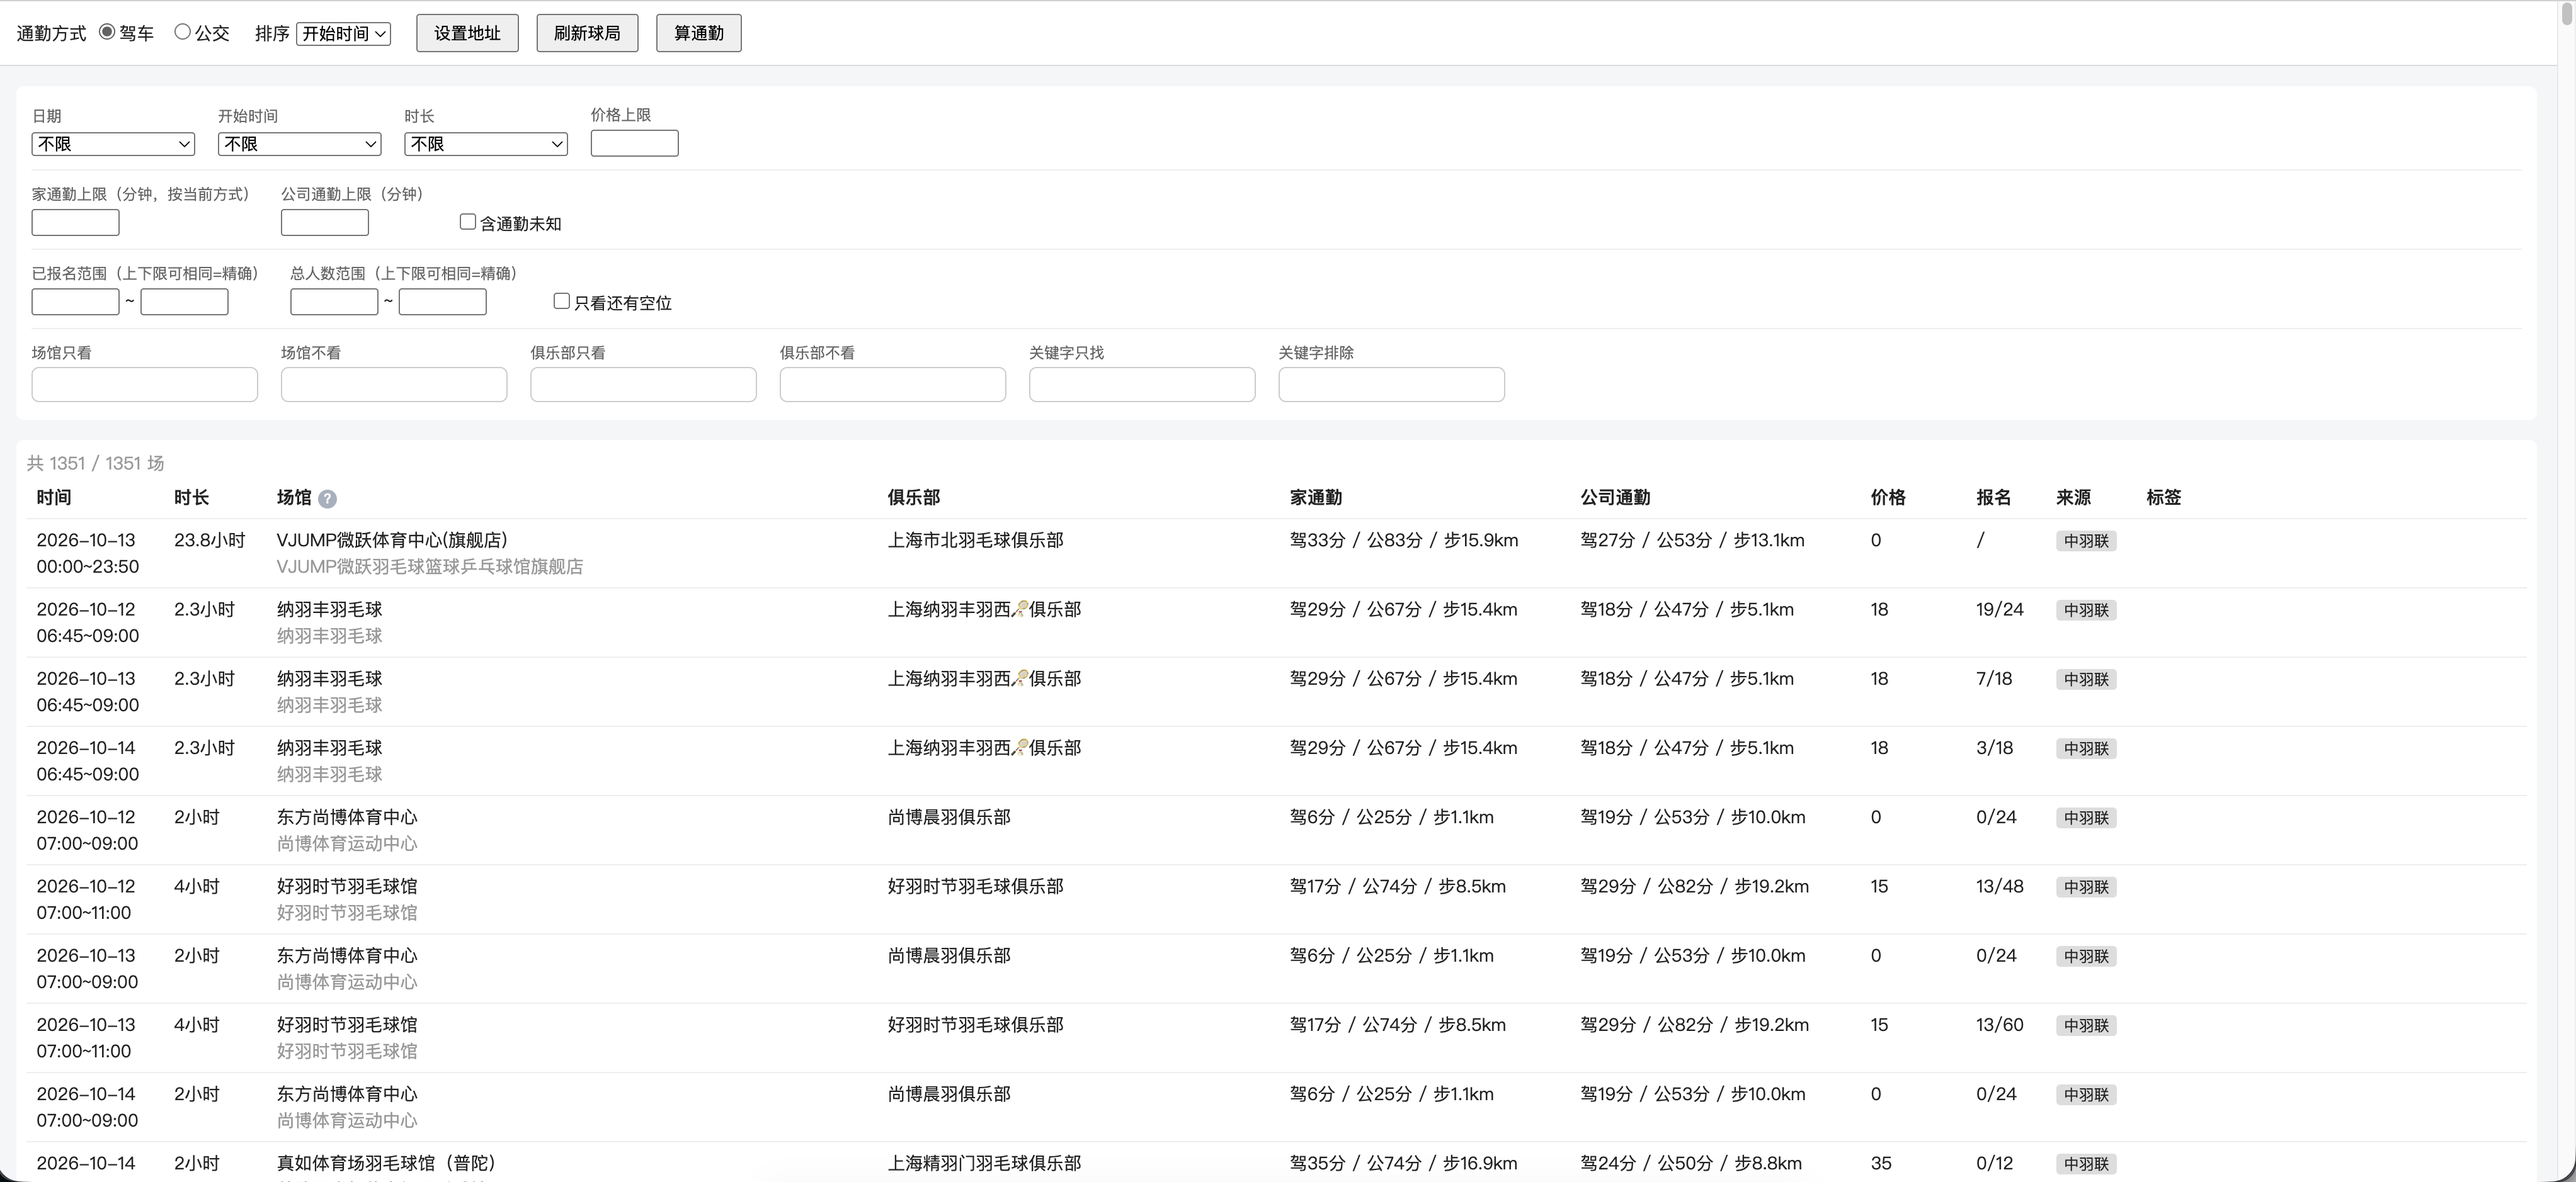
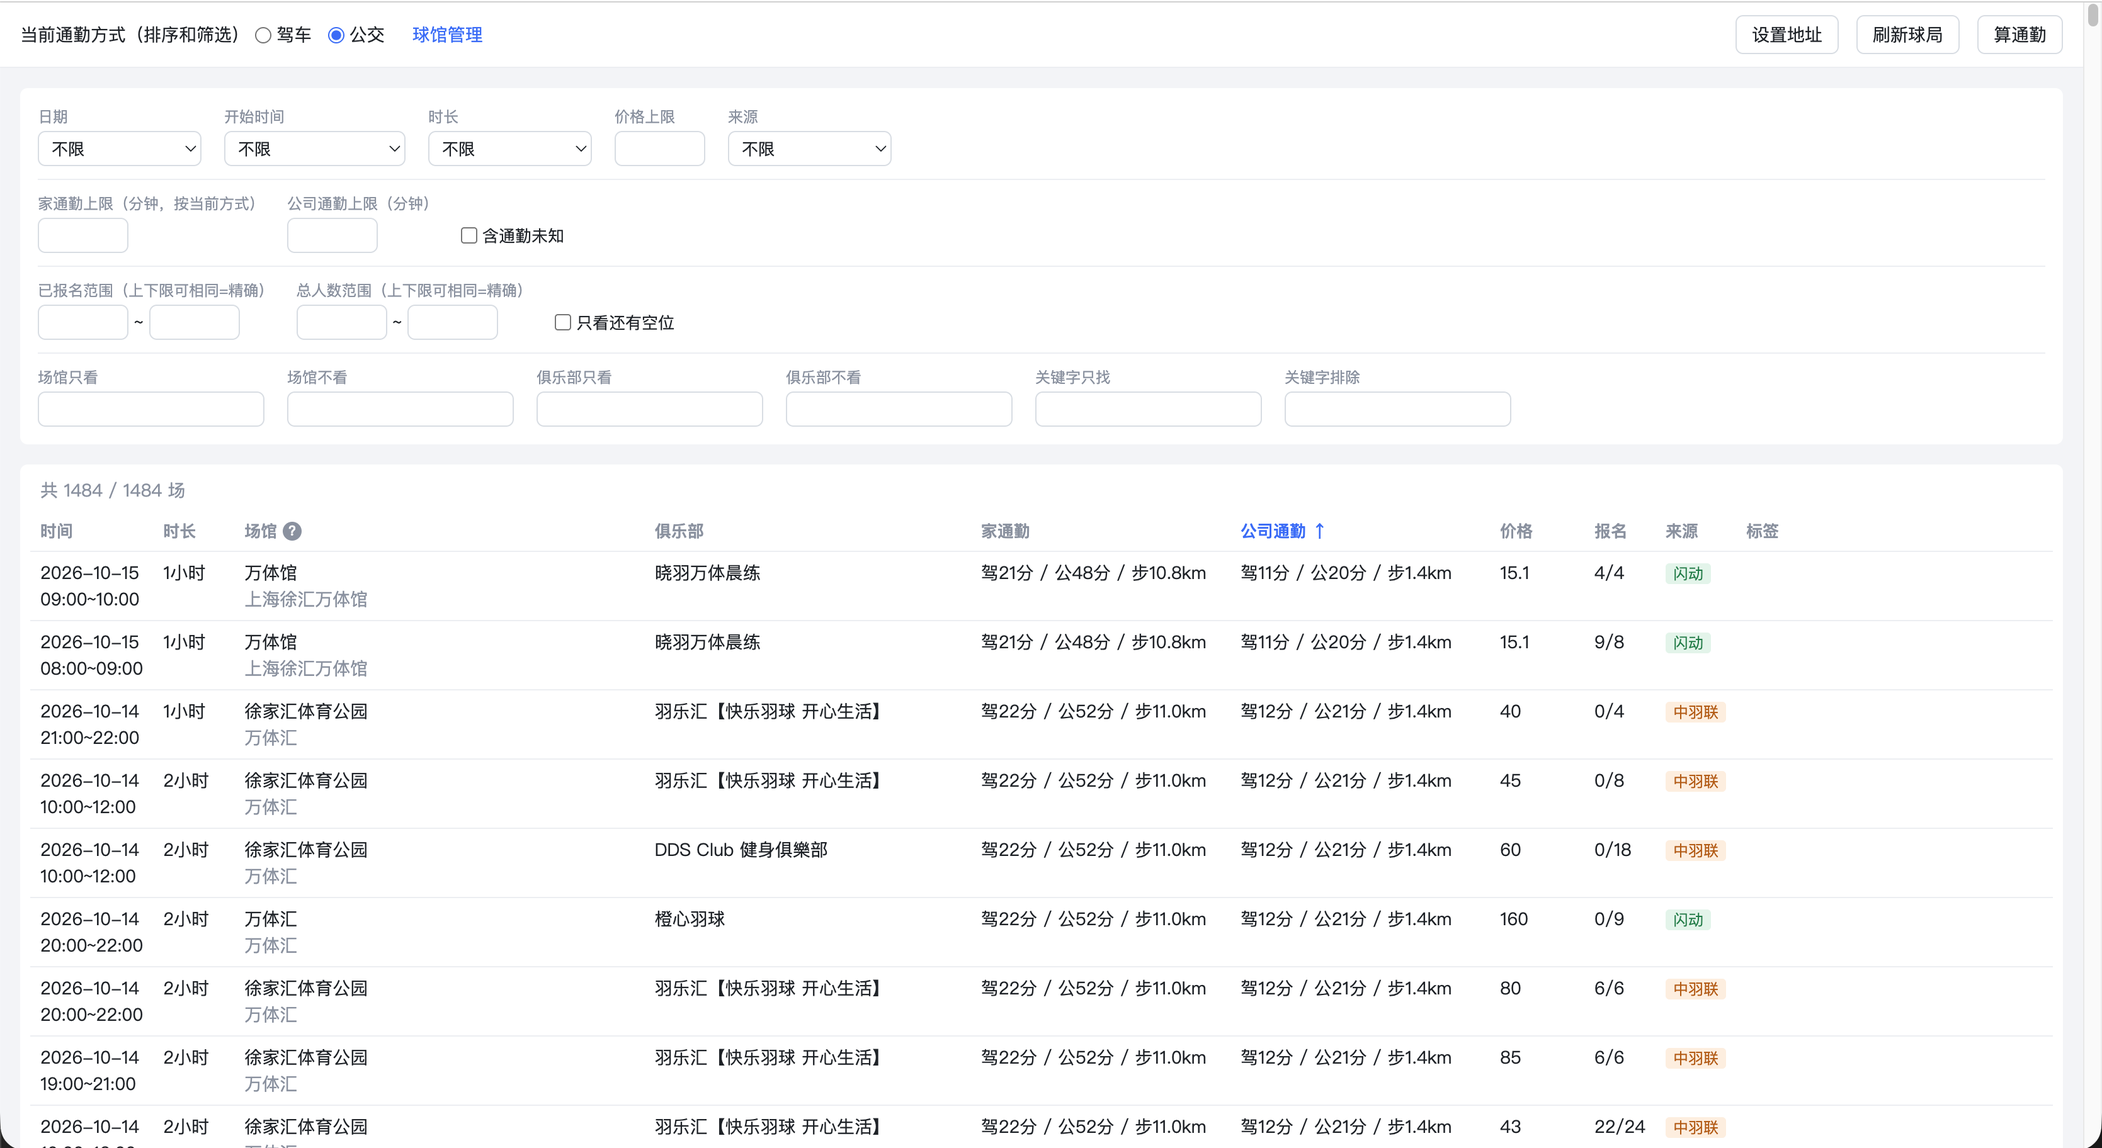
docs: 更新截图,README 加球馆管理页截图

diff --git a/README.md b/README.md
@@ -6,9 +6,13 @@
 
 ![界面截图](screenshot.webp)
 
-筛选示例:明天晚上 6–10 点、2 小时、家和公司通勤都不超过 60 分钟、12 人局、只看有空位,排除指定场馆和「女双」,1496 场里筛出 13 场。
+筛选示例:今天晚上 6–10 点、2 小时、60 元以内、家和公司公交通勤都不超过 60 分钟(含通勤未知)、12–18 人局、只看有空位,排除指定场馆和「女双」「单打」,1484 场里筛出 13 场。
 
 ![筛选示例截图](screenshot2.webp)
+
+球馆管理页(主页顶部「球馆管理」进入):每个平台馆名归到哪个统一球场、按状态筛选、确认或修正自动归类。
+
+![球馆管理截图](screenshot3.webp)
 
 ## 功能
 
